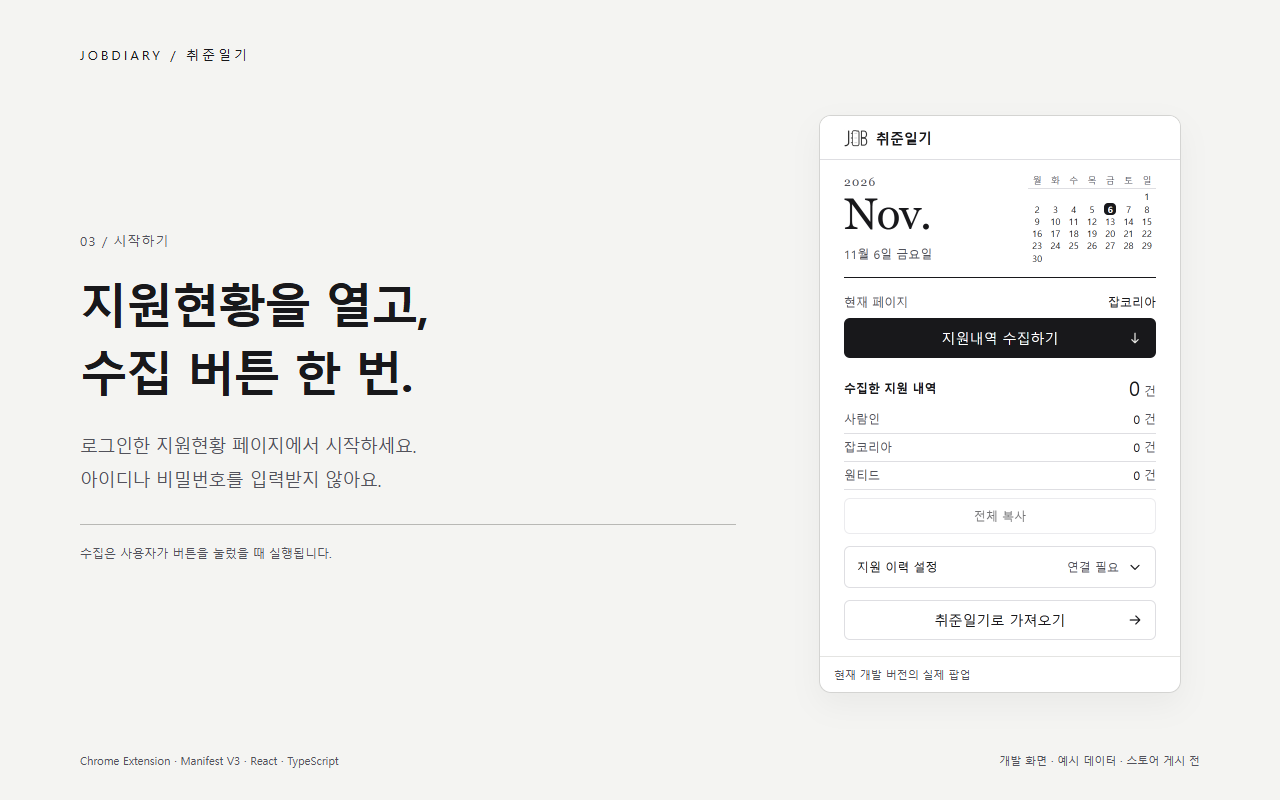
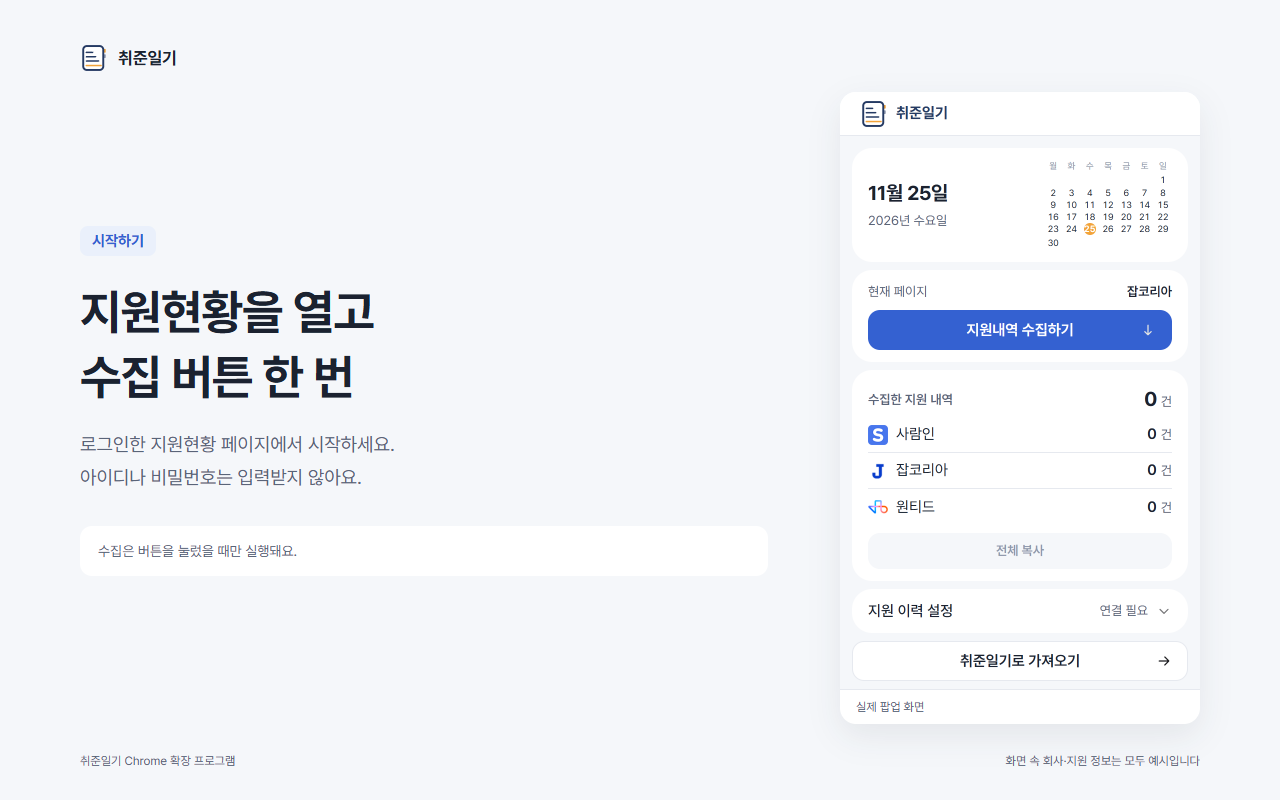
docs: 스토어 소개 이미지를 새 디자인으로 다시 만들고 4번을 회사 정보 화면으로 (#253)

diff --git a/apps/extension/README.md b/apps/extension/README.md
@@ -43,11 +43,11 @@
 | --- | --- |
 | ![전체 복사 완료 UI](docs/store-screenshots/2-copy.png) | ![지원현황에서 수집 시작](docs/store-screenshots/3-start.png) |
 
-| 세 사이트의 수집 내역 | 지원·취소 이력 표시 |
+| 공고 페이지로 회사 정보 정리 | 지원·취소 이력 표시 |
 | --- | --- |
-| ![사람인·잡코리아·원티드 수집](docs/store-screenshots/4-sites.png) | ![실제 확장 엔진이 표시한 지원 이력](docs/store-screenshots/5-history.png) |
+| ![공고 페이지를 읽어 만든 회사 정보](docs/store-screenshots/4-company.png) | ![실제 확장 엔진이 표시한 지원 이력](docs/store-screenshots/5-history.png) |
 
-팝업은 실제 개발 확장에서 촬영했습니다. 사이트 구성과 회사명·지원 내역은 예시이며 사용자 계정을 사용하지 않았습니다. [원본·규격·재생성 절차](scripts/store-screenshots/README.md)를 함께 제공합니다.
+팝업은 실제 확장에서, 회사 정보는 취준일기 웹앱에서 예시 데이터로 촬영했습니다. 사이트 구성과 회사명·지원 내역은 예시이며 사용자 계정을 사용하지 않았습니다. [원본·규격·재생성 절차](scripts/store-screenshots/README.md)를 함께 제공합니다.
 
 ## 사용 방법
 

diff --git a/apps/extension/scripts/store-screenshots/README.md b/apps/extension/scripts/store-screenshots/README.md
@@ -9,7 +9,7 @@
 | docs/store-screenshots/1-overview.png | 수집·가져오기 소개 |
 | docs/store-screenshots/2-copy.png | 실제 복사 완료 UI |
 | docs/store-screenshots/3-start.png | 빈 상태에서 수집 시작 |
-| docs/store-screenshots/4-sites.png | 세 사이트 수집 슬롯 |
+| docs/store-screenshots/4-company.png | 공고 페이지를 읽어 만든 회사 정보(웹앱 화면) |
 | docs/store-screenshots/5-history.png | 실제 엔진이 표시한 지원/취소 배지 |
 | docs/store-screenshots/raw/ | 실제 UI 원본과 촬영 manifest |
 | docs/usage-guides/guide-*.png | 사이트별 수집 위치 도식 |

diff --git a/apps/extension/docs/store-screenshots/README.md b/apps/extension/docs/store-screenshots/README.md
@@ -5,7 +5,7 @@
 - 1-overview.png: 지원 기록 수집과 가져오기
 - 2-copy.png: 표 복사와 실제 완료 UI
 - 3-start.png: 수집 전 상태
-- 4-sites.png: 세 사이트의 수집 슬롯
+- 4-company.png: 공고 페이지를 읽어 만든 회사 정보(취준일기 웹앱 화면, #253)
 - 5-history.png: 정확한 공고 ID에 대한 실제 지원·취소 배지
 
 각 소개 이미지는 1280×800 PNG다. 실제 팝업/배지 UI를 예시 데이터로 촬영했고 사이트 영역은 안내용 구성이다. 개발 구현 기준이며 웹스토어 게시 자료로 업로드한 상태를 의미하지 않는다.
